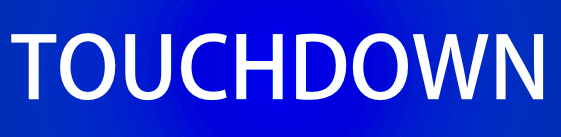
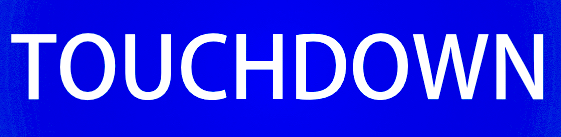
1.2 build! Added optional text (surprisingly easy). Made touchdown graphic even lighter (hopefully it'll finally stop being keyed out), and extended delay on replay animation switch a little bit to try to stop any possible flashing.

diff --git a/Football Scorebug/AppDelegate.m b/Football Scorebug/AppDelegate.m
@@ -46,6 +46,8 @@ int homeSeed;
 bool andGoal;
 bool justDown;
 
+bool optText;
+
 bool clockRunning;
 
 NSTimer *clockTimer;
@@ -67,6 +69,8 @@ NSString *location;
 NSString *replayHide;
 
 NSString *dateText;
+
+NSString *optionalText;
 
 - (void)applicationDidFinishLaunching:(NSNotification *)aNotification {
     [_displayWindow close];
@@ -171,6 +175,26 @@ NSString *dateText;
         location = [input5 stringValue];
     }
 
+    NSAlert *alert8 = [[NSAlert alloc] init];
+    [alert8 setMessageText:@"If you would like any optional text, enter it in below"];
+    [alert8 addButtonWithTitle:@"Ok"];
+    NSTextField *input8 = [[NSTextField alloc] initWithFrame:NSMakeRect(0, 0, 200, 24)];
+    [input8 setStringValue:@""];
+    [alert8 setAccessoryView:input8];
+    NSInteger button8 = [alert8 runModal];
+    if (button8 == NSAlertFirstButtonReturn) {
+         optionalText = [input8 stringValue];
+    }
+    
+    if ([optionalText isEqualToString:@""]) {
+        optText = false;
+        [_optText setStringValue:@""];
+        [_optTextBackground setHidden:YES];
+    } else {
+        optText = true;
+        [_optTextBackground setHidden:NO];
+        [_optText setStringValue:optionalText];
+    }
     
     [_awayNameDisplay setStringValue:awayName];
     [_homeNameDisplay setStringValue:homeName];
@@ -295,7 +319,9 @@ NSString *dateText;
     NSURL* videoURLTwo = [[NSBundle mainBundle] URLForResource:@"animation 2" withExtension:@"m4v"];
     self.animationTwoView.player = [AVPlayer playerWithURL:videoURLTwo];
     
-    
+    optText = false;
+    [_optText setStringValue:@""];
+    [_optTextBackground setHidden:YES];
 }
 
 - (NSString*)getTimeString:(int)timeSeconds {
@@ -680,7 +706,7 @@ NSString *dateText;
     [[_animationView player] play];
     replayDone = NO;
     [_colorScorebug setHidden:NO];
-    resetTimer = [NSTimer scheduledTimerWithTimeInterval:2.1 target:self selector:@selector(resetReplay) userInfo:nil repeats:NO];
+    resetTimer = [NSTimer scheduledTimerWithTimeInterval:2.2 target:self selector:@selector(resetReplay) userInfo:nil repeats:NO];
     replayTimer = nil;
 
 }
@@ -1141,6 +1167,8 @@ NSString *dateText;
         [_awaySeed setHidden:YES];
         [_homeSeed setHidden:YES];
         [_flagImage setHidden:YES];
+        [_optText setHidden:YES];
+        [_optTextBackground setHidden:YES];
         [_timeoutControl setStringValue:@"Hidden"];
         [_timeoutControl setTextColor:black];
         [_flagControl setStringValue:@"Hidden"];
@@ -1161,6 +1189,10 @@ NSString *dateText;
         [_scorebugBackground setHidden:NO];
         [_awaySeed setHidden:NO];
         [_homeSeed setHidden:NO];
+        if (optText) {
+            [_optText setHidden:NO];
+            [_optTextBackground setHidden:NO];
+        }
     }
 
 }

diff --git a/Football Scorebug/AppDelegate.h b/Football Scorebug/AppDelegate.h
@@ -136,6 +136,10 @@
 @property (weak) IBOutlet AVPlayerView *animationTwoView;
 
 
+@property (weak) IBOutlet NSTextField *optText;
+
+@property (weak) IBOutlet NSImageView *optTextBackground;
+
 
 @end
 
